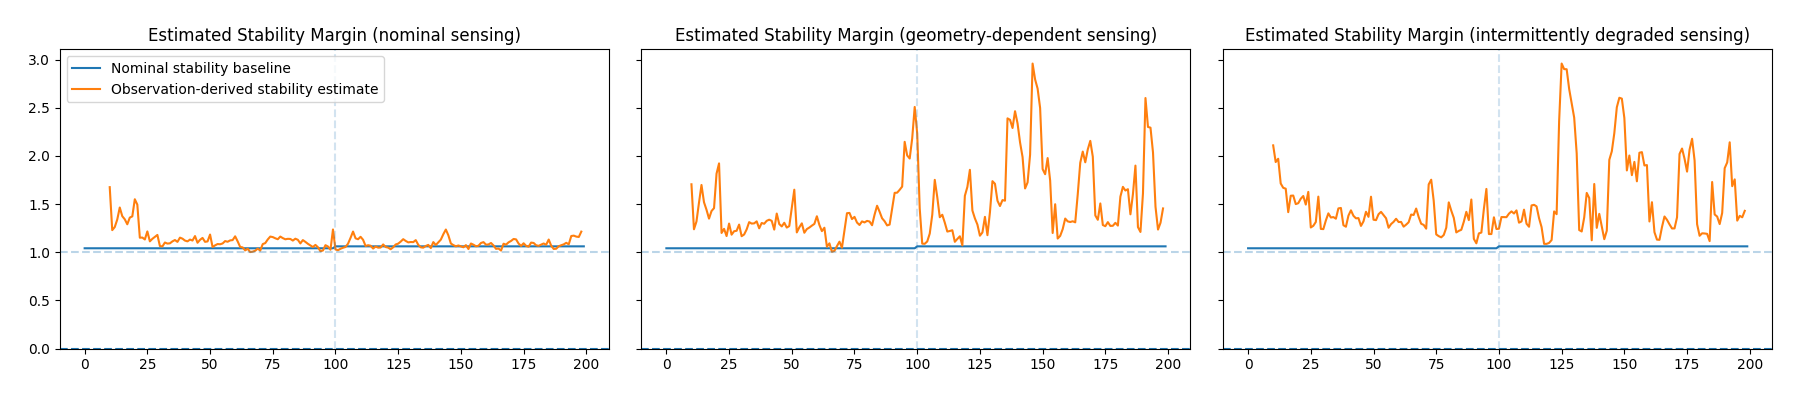
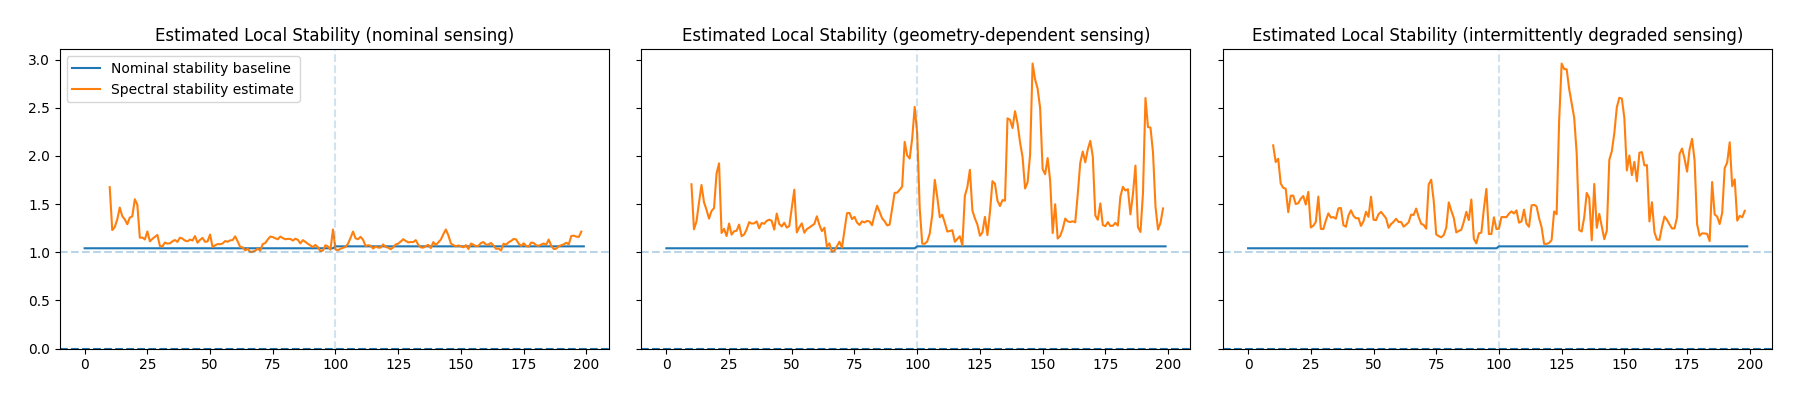
Update readme and stability plot

diff --git a/main.py b/main.py
@@ -99,10 +99,10 @@ def run_all():
         results = run(experiment)
         exp_results[experiment] = {"results": results}
 
-    plot_trajectory(exp_results, experiments, save_plot = False)
-    plot_uncertainty(exp_results, experiments, save_plot = False)
-    plot_risk(exp_results, experiments, save_plot = False)
-    plot_stability(exp_results, experiments, save_plot = False)
+    plot_trajectory(exp_results, experiments, save_plot = True)
+    plot_uncertainty(exp_results, experiments, save_plot = True)
+    plot_risk(exp_results, experiments, save_plot = True)
+    plot_stability(exp_results, experiments, save_plot = True)
 
 if __name__ == "__main__":
     run_all()

diff --git a/src/utils/plotting.py b/src/utils/plotting.py
@@ -294,12 +294,12 @@ def plot_stability(exp_results, experiments, save_plot=False):
             t = np.arange(len(meas_stability)) + 10
             
             axs[i].plot(sys_stability, label="Nominal stability baseline")
-            axs[i].plot(t, meas_stability, label="Observation-derived stability estimate")
+            axs[i].plot(t, meas_stability, label="Spectral stability estimate")
             axs[i].axvline(100, linestyle='--', alpha=0.2)
             axs[i].axhline(0, linestyle='--')
             axs[i].axhline(1.0, linestyle='--', alpha=0.3)
             axs[i].set_ylim(0, max_y_value)
-            axs[i].set_title(f'Estimated Stability Margin ({desc})')
+            axs[i].set_title(f'Estimated Local Stability ({desc})')
             if i == 0:
                 axs[i].legend(loc="upper left")
 
@@ -329,12 +329,12 @@ def plot_stability(exp_results, experiments, save_plot=False):
         
         fig, ax = plt.subplots()
         ax.plot(sys_stability, label="Nominal stability baseline")
-        ax.plot(t, meas_stability, label="Observation-derived stability estimate")
+        ax.plot(t, meas_stability, label="Spectral stability estimate")
         ax.axvline(100, linestyle='--', alpha=0.2)
         ax.axhline(0, linestyle='--')
         ax.axhline(1.0, linestyle='--', alpha=0.3)
         ax.set_ylim(0, max_y_value)
-        ax.set_title(f'Estimated Stability Margin ({desc})')
+        ax.set_title(f'Estimated Local Stability ({desc})')
         ax.legend(loc="upper left")
 
     plt.tight_layout(pad=2)

diff --git a/README.md b/README.md
@@ -1,11 +1,28 @@
 # Adaptive Sensing & Robust Estimation
-## Stability-aware inference for partially observed dynamical systems under uncertainty
+## Research platform for partially observed dynamical systems under uncertainty.
 
 This repository studies how degraded sensing alters estimator awareness, uncertainty behavior, and stability estimation in partially observed dynamical systems undergoing destabilizing dynamics.
 
 The implemented systems combine nonlinear observers, recursive filtering, sensing-aware uncertainty analysis, and stability-inspired robustness diagnostics to study how sensing structure influences estimator convergence, uncertainty awareness, and stability under incomplete or unreliable observations.
 
 Current experiments focus on geometry-dependent and intermittently degraded sensing regimes, where estimator confidence may diverge from true sensing reliability.
+
+## Research Context
+
+This repository supports ongoing research into robust
+estimation and stability analysis for partially observed
+dynamical systems.
+
+The broader goal is to understand how sensing structure,
+measurement uncertainty, and observation quality influence:
+
+• estimator convergence
+• uncertainty awareness
+• reconstruction quality
+• stability certification
+
+Current experiments focus on nonlinear observers operating
+under geometry-dependent and intermittently degraded sensing.
 
 ## Research Themes
 
@@ -18,6 +35,14 @@ Current experiments focus on geometry-dependent and intermittently degraded sens
 - Uncertainty quantification
 - Robust sensing systems
 - Nonlinear observers
+
+## Applications include:
+
+- Autonomous sensing systems
+- Tracking and navigation
+- Remote sensing
+- Environmental monitoring
+- Learning-enabled estimation pipelines
 
 ## Overview
 
@@ -114,7 +139,7 @@ Residual-based diagnostics respond earlier and more aggressively to sensing unre
 
 **Figure 3. Observation-derived stability estimation under degraded sensing conditions.**
 
-_Comparison between nominal stability behavior and observation-derived stability estimates across sensing regimes. Under nominal sensing, estimated stability remains comparatively bounded and consistent. Geometry-dependent and intermittently degraded sensing produce amplified stability fluctuations and transient instability excursions despite identical underlying system dynamics._
+_Comparison between nominal stability behavior and observation-derived stability estimates across sensing regimes. Under nominal sensing, estimated stability remains comparatively bounded and consistent. Geometry-dependent and intermittently degraded sensing produce amplified stability fluctuations and transient instability excursions despite identical underlying system dynamics. Stability estimate obtained from the dominant eigenvalue magnitude of the symmetric component of a locally estimated dynamics operator._
 
 ### Degraded sensing distorts stability awareness
 